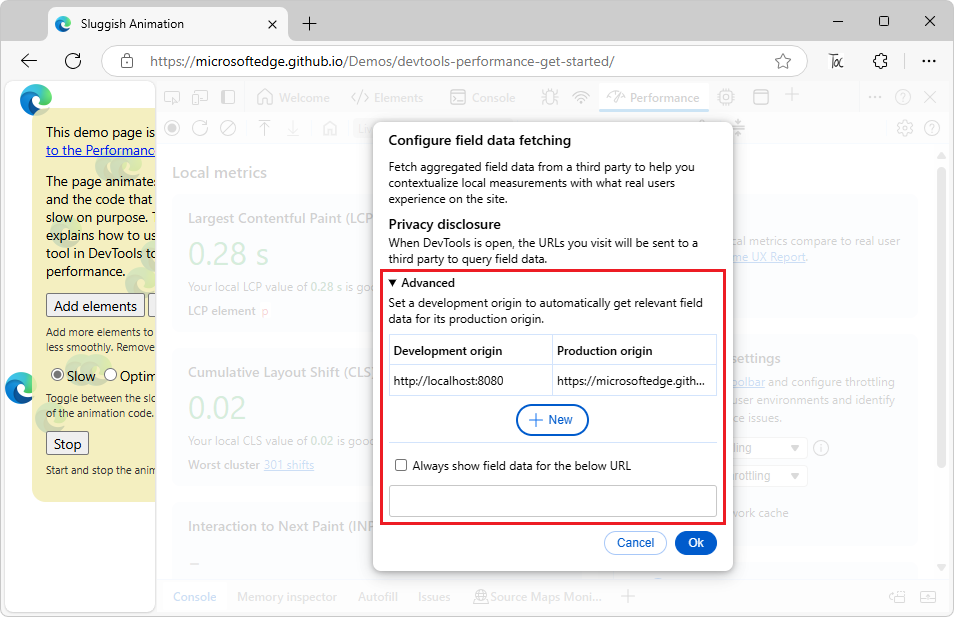
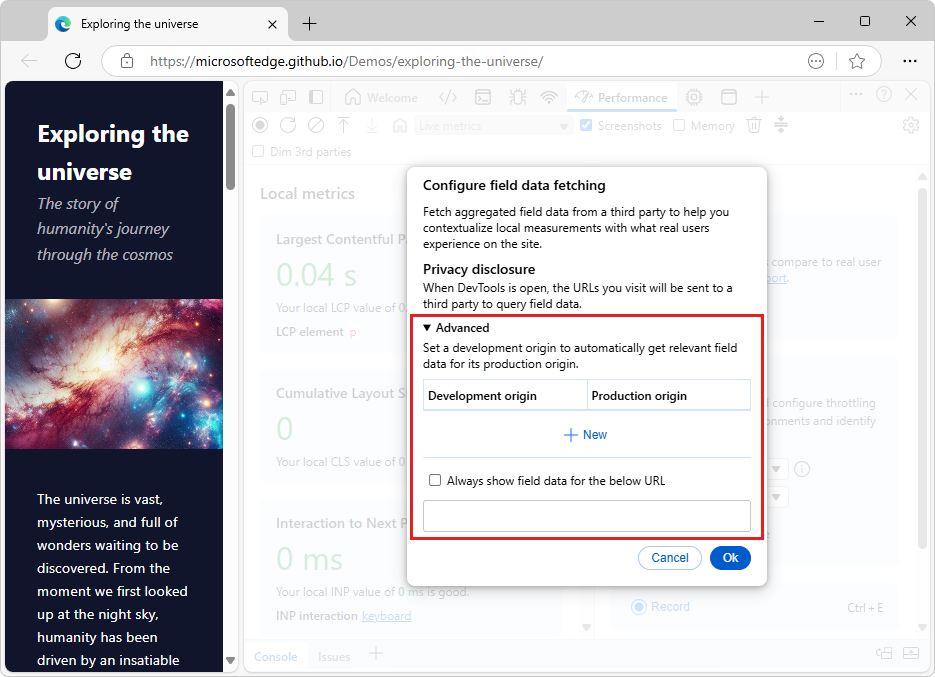
home page steps

diff --git a/microsoft-edge/devtools-guide-chromium/performance/overview.md b/microsoft-edge/devtools-guide-chromium/performance/overview.md
@@ -130,6 +130,10 @@ In contrast, a recorded performance trace shows information about the performanc
 | local metrics, local data | The LCP, CLS, and INP metrics.  They are captured locally on the inspected webpage, and are updated as you interact with the page. | |
 | field metrics, field data | Data from the Chrome UX Report (CrUX), showing how most of your users experience your website. | [Overview of CrUX](https://developer.chrome.com/docs/crux) |
 
+
+<!-- ====================================================================== -->
+## Display Core Web Vitals metrics
+
 When you open the **Performance** tool, it immediately captures and displays the local [Largest Contentful Paint (LCP)](https://web.dev/articles/lcp) and [Cumulative Layout Shift (CLS)](https://web.dev/articles/cls) metrics, and displays their scores (**good**, **needs improvement**, or **bad**).
 
 The **Interaction to Next Paint (INP)** card is also displayed, initially without data.
@@ -137,6 +141,35 @@ The **Interaction to Next Paint (INP)** card is also displayed, initially withou
 ![Observing the initial metrics](./overview-images/observe-metrics.png)
 
 To get a breakdown of a metric score, hover over the metric value to see a tooltip.
+
+
+To interact with a webpage to display the **Interaction to Next Paint (INP)** card:
+
+1. Open the [Exploring the universe](https://microsoftedge.github.io/Demos/exploring-the-universe/) demo in a new window or tab.
+
+1. Right-click the webpage and then select **Inspect** to open DevTools, and then select the **Performance** tool.
+
+1. Set a 4x CPU slowdown and a slow 4G network throttle.
+
+1. Right-click the **Refresh** button to the left of the Address bar, and then select **Empty cache and hard refresh**.
+
+   This ensures that the image is loaded again from the server, not from the local cache.
+
+   The **LCP** card shows that the image took a long time to load.
+
+   The engine identifies this image of stars as the largest item to be rendered.
+
+   The **CLS** card shows orange and **0.15**.  This illustrates how sudden, unexpected jumps in the layout can negatively impact users.  This is also due to the image taking some time to load.
+
+   The demo webpage neglects to specify a height for the image, and so the page initially loads without reserving much space for the image.  When the image starts appearing, the content below it suddenly jumps down.
+
+1. Click the accordion items in the right column.
+
+   **INP** values are displayed.
+
+1. Click the INP values.
+
+   In the demo page, these values are designed to load slowly, so it takes a long time between clicking the value and rendering the corresponding content.  It's a random value between 100ms and 1000ms, leading to a high INP metric.
 
 
 <!-- ------------------------------ -->
@@ -220,7 +253,11 @@ To add field data:
 
       Additionally, if for some reason you can't get the field data automatically, you can select the **Always show field data for the below URL** checkbox and provide a URL.  The **Performance** tool will attempt to fetch field data for this URL first and then show you this field data no matter what page you navigate to.
 
-      To change your field data fetch settings after setup, in the **Performance** tool home page, in the **Field data** section, click the **Configure** button.  If the **Performance** tool home page is not shown, because the timeline is shown instead, optionally click the **Save profile** (![The Save profile icon](./overview-images/save-profile-icon.png)) button, and then click the **Clear** (![The Clear icon](./overview-images/clear-icon.png)) button.
+      To change your field data fetch settings after setup, in the **Performance** tool home page, in the **Field data** section, click the **Configure** button.  If the **Performance** tool home page is not shown, because the timeline is shown instead, to the right of the **x** (house) icon, 
+
+      Or, click the **Save profile** (![The Save profile icon](./overview-images/save-profile-icon.png)) button, and then click the **Clear** (![The Clear icon](./overview-images/clear-icon.png)) button.
+
+<!-- todo: bug: tooltip not shown on house icon when on the Live  -->
 
    <!-- end expander section -->
 
@@ -228,7 +265,7 @@ To add field data:
 
    With the field data fetch set up, the **Performance** tool now shows you a comparison between your local metric scores and those that your users experience.  You can see the collection period in the **Field data** section on the right.
 
-   ![The collection period of field data after it has fetched](./overview-images/field-data-fetched.png)<!-- todo: redo showing edge -->
+   ![The collection period of field data after it has fetched](./overview-images/field-data-fetched.png)
 
    To get a breakdown of a metric score, hover over the metric value to see a tooltip.
 
